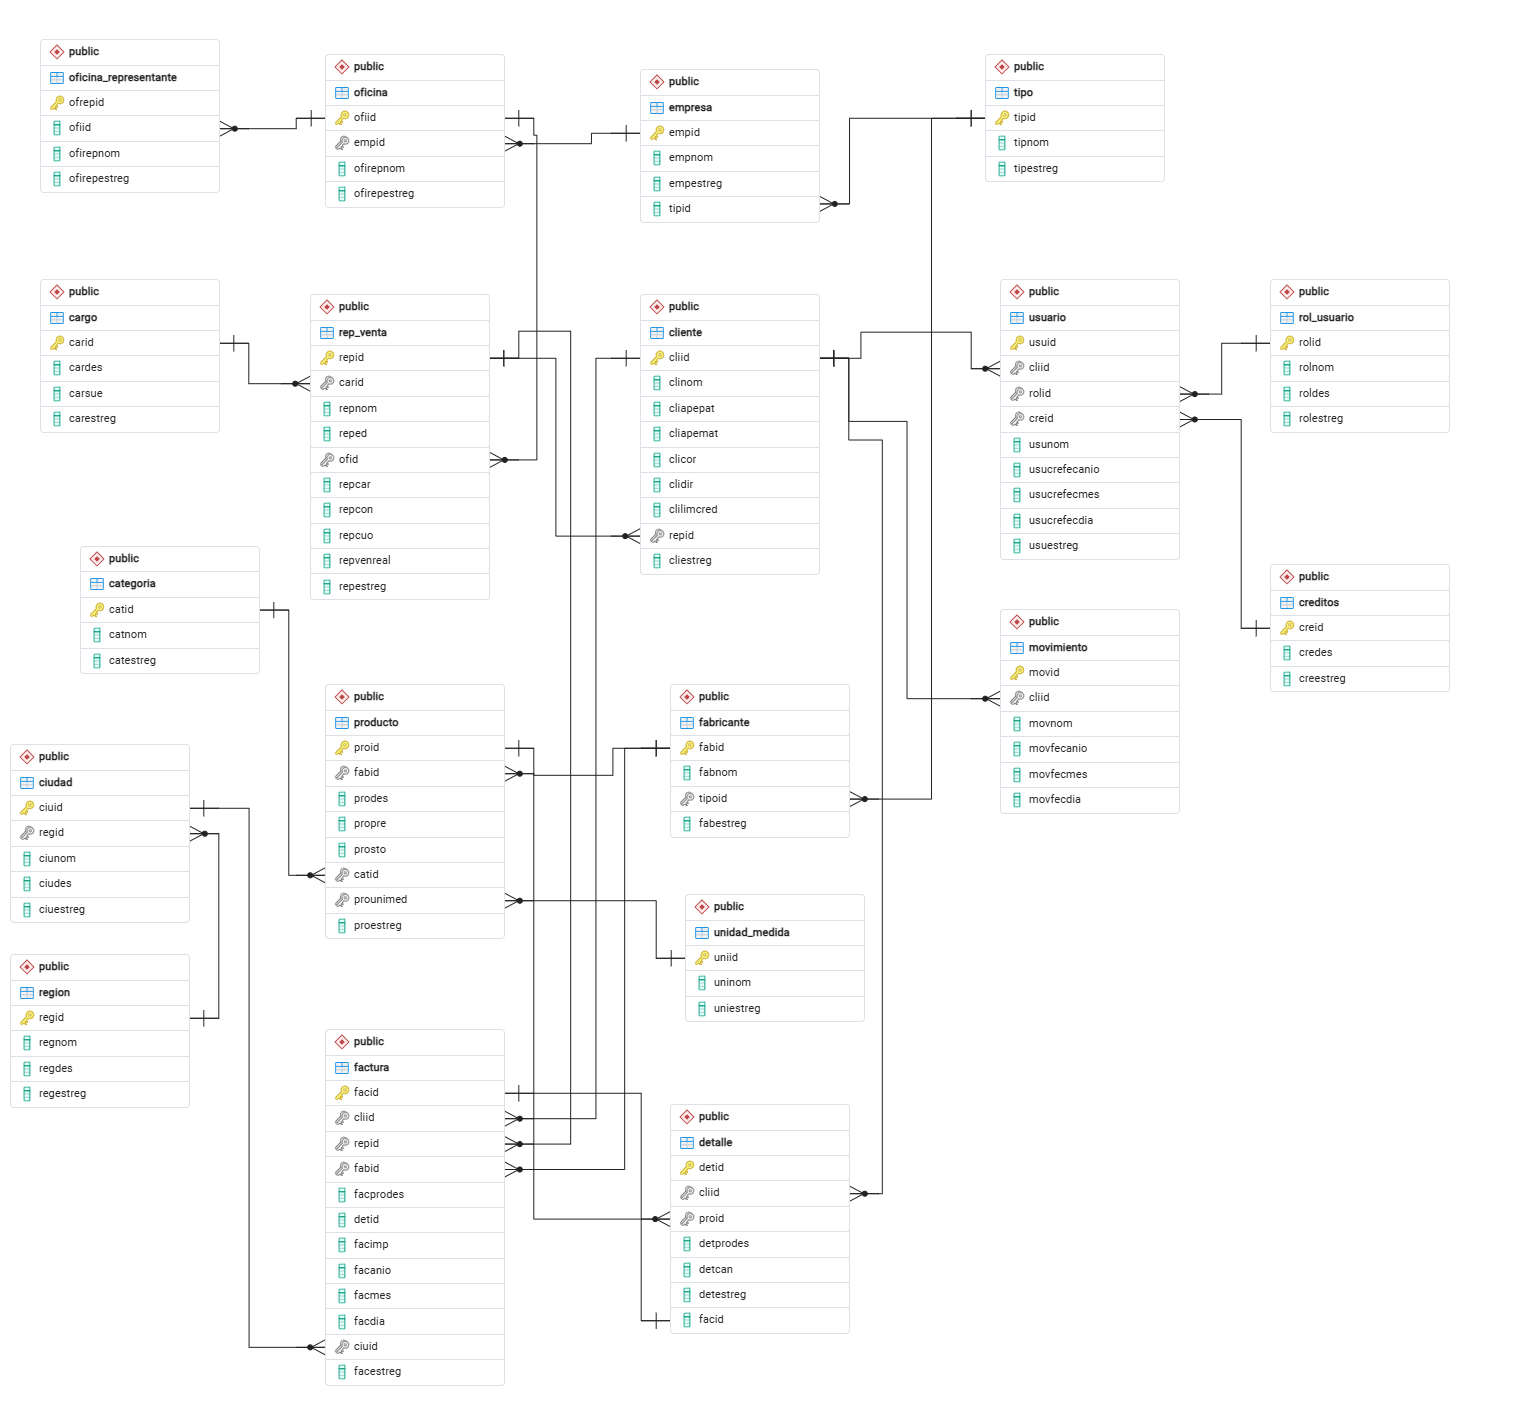
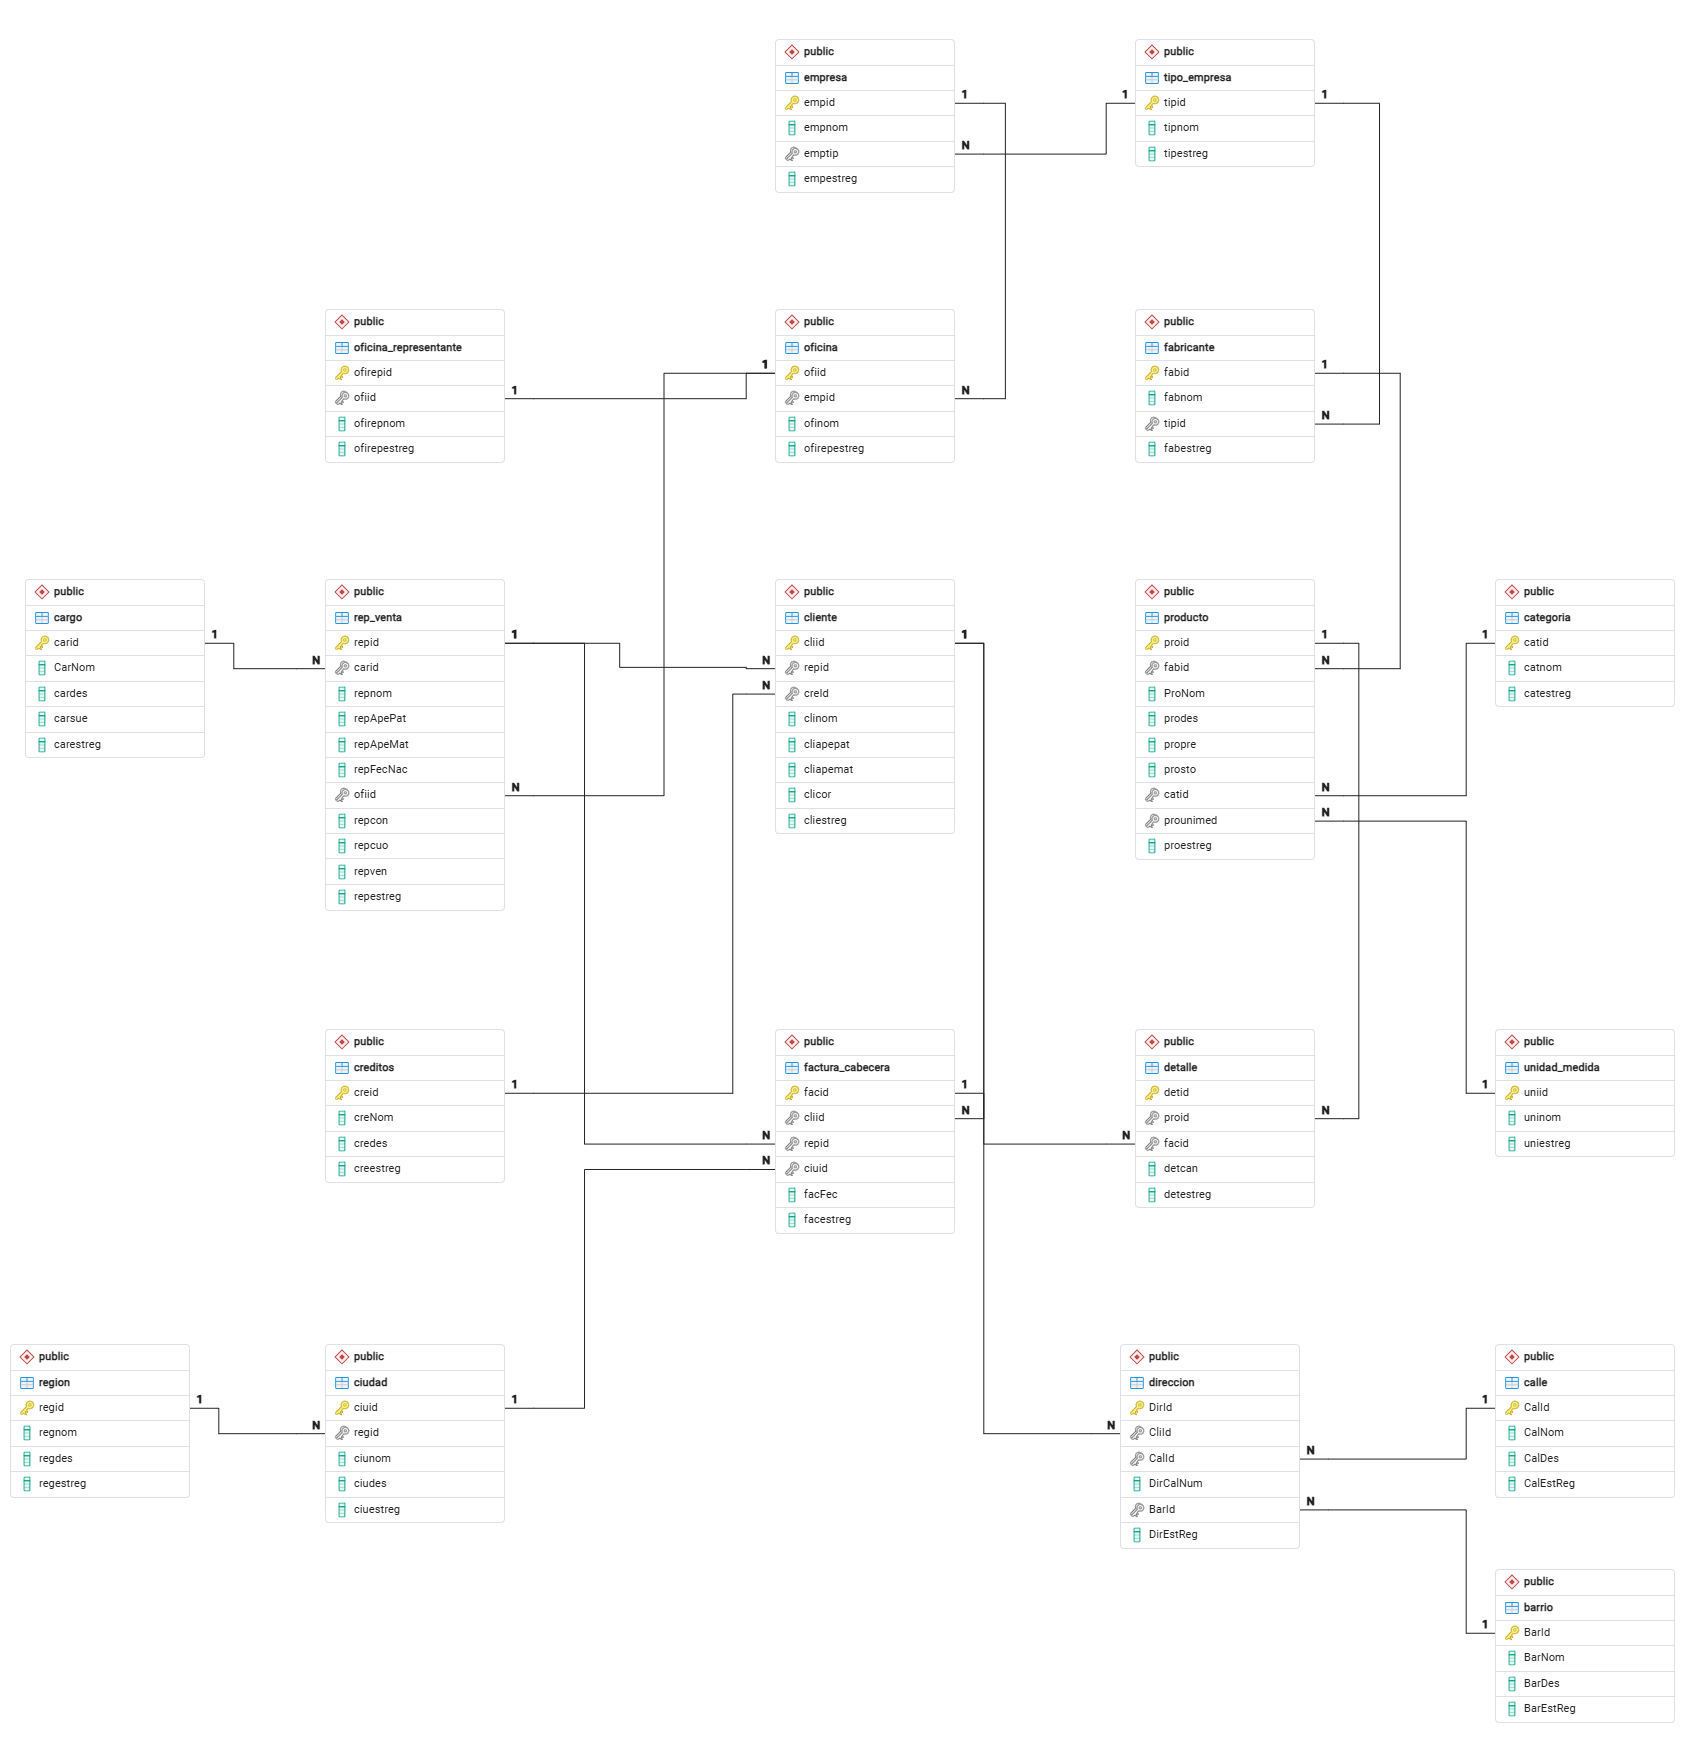
proyecto de java para conectar la bd

diff --git a/java/entregable 7 - conexión a java/BDConection_EmpresasDistribucion/src/connection/Connection.java b/java/entregable 7 - conexión a java/BDConection_EmpresasDistribucion/src/connection/Connection.java
@@ -1,0 +1,10 @@
+package connection;
+
+public class Connection {
+
+	public static void main(String[] args) {
+		// TODO Auto-generated method stub
+
+	}
+
+}

diff --git a/java/entregable 7 - conexión a java/BDConection_EmpresasDistribucion/src/module-info.java b/java/entregable 7 - conexión a java/BDConection_EmpresasDistribucion/src/module-info.java
@@ -1,0 +1,8 @@
+/**
+ * 
+ */
+/**
+ * 
+ */
+module BDConection_EmpresasDistribucion {
+}